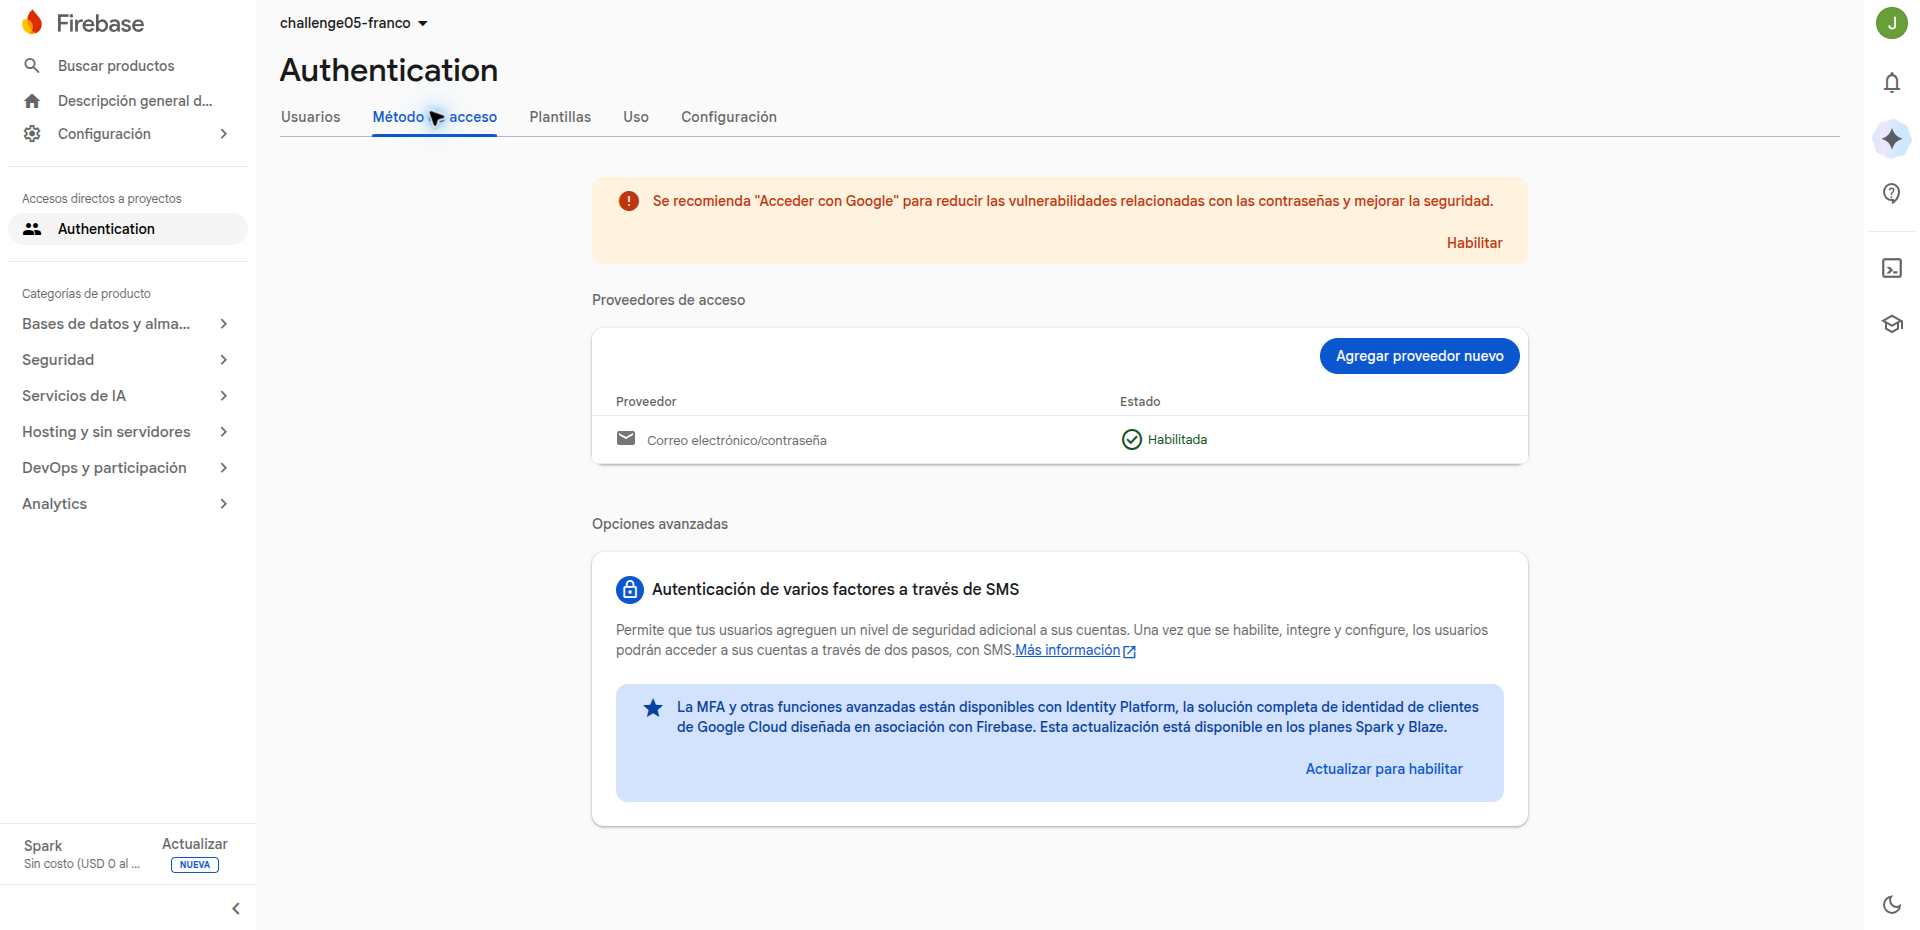
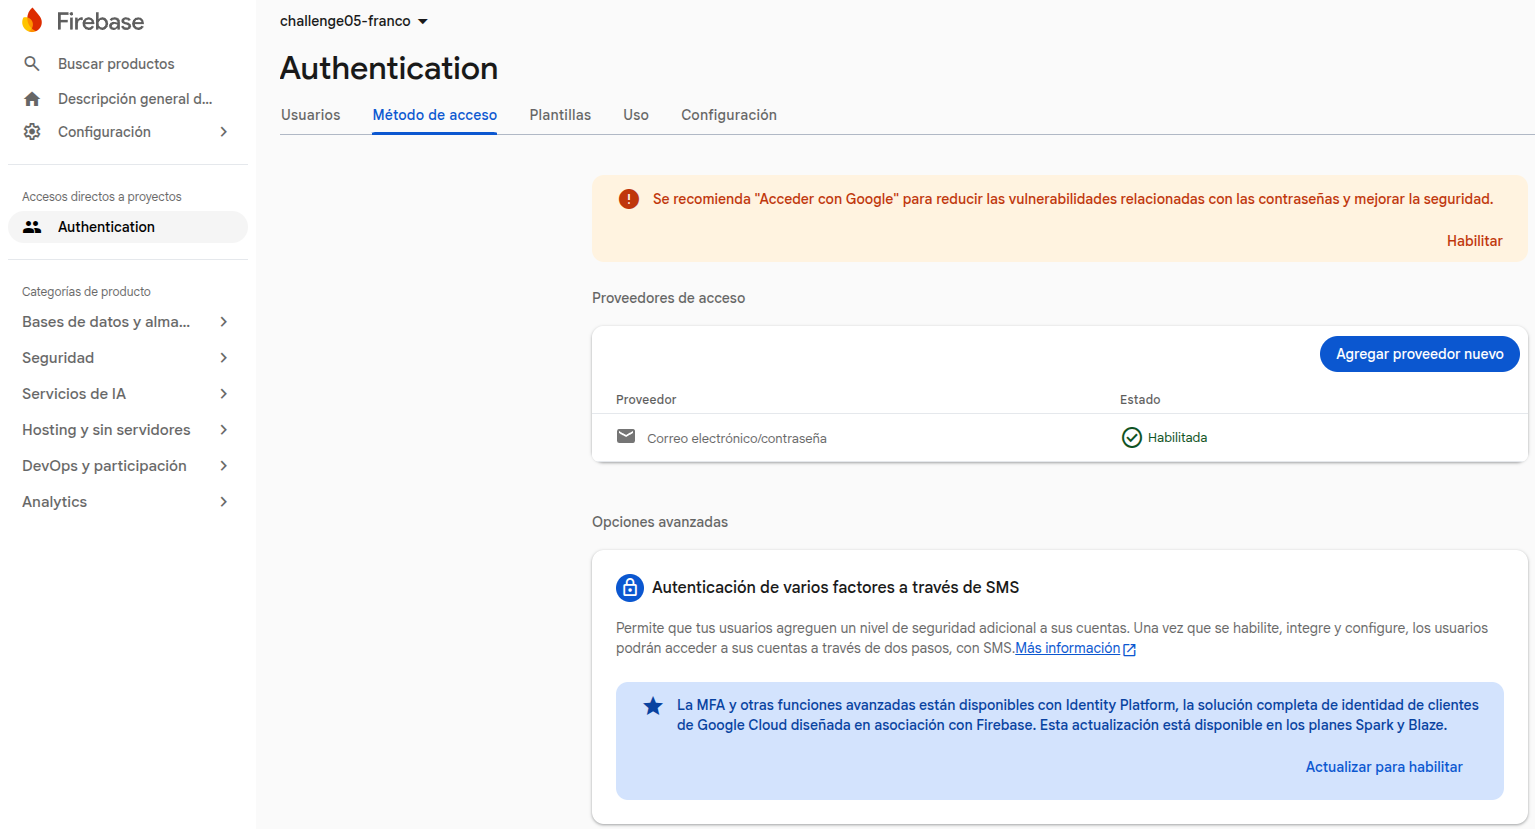
[docs] image

diff --git a/README.md b/README.md
@@ -15,7 +15,7 @@ La autenticación real usa un proyecto Firebase y una app web registrada. Para o
 
 En la consola del proyecto usada para validar esta aplicación, Email/Password aparece habilitado:
 
-![Firebase Authentication muestra habilitado el acceso por correo electrónico y contraseña](image.png)
+![Firebase Authentication muestra habilitado el acceso por correo electrónico y contraseña](docs/images/firebase-email-password.png)
 
 Desde la carpeta del proyecto, crear el archivo de variables si aún no existe:
 
